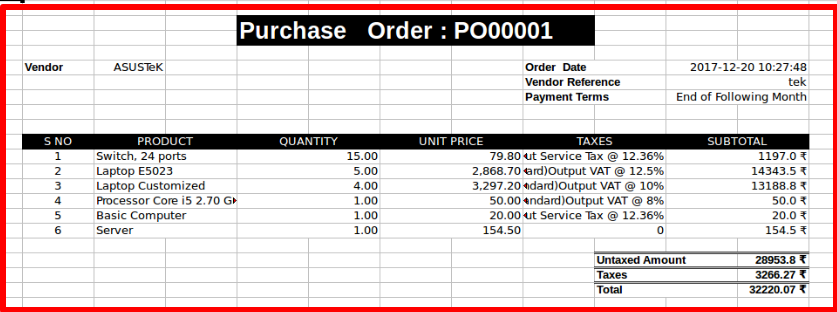
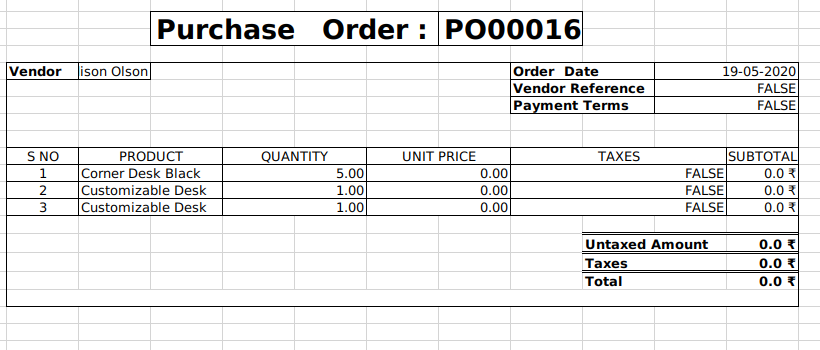
purchase order - fix

diff --git a/purchase_order_xlsx/wizard/purchase_xls.py b/purchase_order_xlsx/wizard/purchase_xls.py
@@ -52,24 +52,40 @@ class WizardWizards(models.Model):
             custom_value ['amount_untaxed'] = str(rec.amount_untaxed)+' '+rec.currency_id.symbol
             custom_value ['amount_tax'] = str(rec.amount_tax)+' '+rec.currency_id.symbol
                                                   
-            style0 = xlwt.easyxf('font: name Times New Roman bold on;align: horiz right;', num_format_str='#,##0.00')
-            style1 = xlwt.easyxf('font: name Times New Roman bold on; pattern: pattern solid, fore_colour gray25;align: horiz center;', num_format_str='#,##0.00')
-            style2 = xlwt.easyxf('font:height 400,bold True; pattern: pattern solid, fore_colour gray25;', num_format_str='#,##0.00')
-            style3 = xlwt.easyxf('font:bold True;', num_format_str='#,##0.00')
-            style4 = xlwt.easyxf('font:bold True;  borders:top double;align: horiz right;', num_format_str='#,##0.00')
-            style5 = xlwt.easyxf('font: name Times New Roman bold on;align: horiz center;', num_format_str='#,##0')
-            style6 = xlwt.easyxf('font: name Times New Roman bold on;', num_format_str='#,##0.00')
+            style0 = xlwt.easyxf('font: name Times New Roman bold on;borders:left thin, right thin, top thin, bottom thin;align: horiz right;', num_format_str='#,##0.00')
+            style1 = xlwt.easyxf('font: name Times New Roman bold on;borders:left thin, right thin, top thin, bottom thin;align: horiz center;', num_format_str='#,##0.00')
+            style2 = xlwt.easyxf('font:height 400,bold True;borders:left thin, right thin, top thin, bottom thin;', num_format_str='#,##0.00')
+            style3 = xlwt.easyxf('font:bold True;borders:left thin, right thin, top thin, bottom thin;', num_format_str='#,##0.00')
+            style4 = xlwt.easyxf('font:bold True;  borders:top double,right thin;align: horiz right;', num_format_str='#,##0.00')
+            style5 = xlwt.easyxf('font: name Times New Roman bold on;borders:left thin, right thin, top thin, bottom thin;align: horiz center;', num_format_str='#,##0')
+            style6 = xlwt.easyxf('font: name Times New Roman bold on;borders:left thin, right thin, top thin, bottom thin;', num_format_str='#,##0.00')
             style7 = xlwt.easyxf('font:bold True;  borders:top double;', num_format_str='#,##0.00')
-            
-                          
+            style8 = xlwt.easyxf('font: name Times New Roman bold on;borders:left thin, right thin, top thin, bottom thin;align: horiz right;', num_format_str='DD-MM-YYYY')
+            style3_1 = xlwt.easyxf('font: name Times New Roman bold on;borders:left thin;align: horiz right;', num_format_str='#,##0.00')
+            style4_1 = xlwt.easyxf('borders:top thin;', num_format_str='#,##0.00')
+            style5_1 = xlwt.easyxf('borders:left thin;', num_format_str='#,##0.00')
+            style6_1 = xlwt.easyxf('font:bold True;  borders:top double;', num_format_str='#,##0.00')
+            style7_1 = xlwt.easyxf('borders:left thin,bottom thin,right thin;', num_format_str='#,##0.00')
+            style8_1 = xlwt.easyxf('borders:right thin;', num_format_str='#,##0.00')
             sheet = workbook.add_sheet(rec.name)
             
-            sheet.write_merge(2, 3, 4, 6, 'Purchase   Order :', style2)
+            sheet.write_merge(2, 3, 3, 6, 'Purchase   Order :', style2)
             sheet.write_merge(2, 3, 7, 8, custom_value['partner_no'], style2)     
             sheet.write(5, 1, 'Vendor', style3)
+            sheet.write(6, 1, '',style3_1)
+            sheet.write(7, 1, '',style3_1)
+            sheet.write(8, 1, '',style3_1)
+            sheet.write(9, 1, '',style3_1)
+            sheet.write(5, 3, '',style4_1)
+            sheet.write(5, 4, '',style4_1)
+            sheet.write(5, 5, '',style4_1)
+            sheet.write(5, 6, '',style4_1)
+            sheet.write(5, 7, '',style4_1)
+            sheet.write(8, 12,'', style5_1)
+            sheet.write(9, 12,'', style5_1)
             sheet.write(5, 2, custom_value['partner_id'], style0)     
             sheet.write_merge(5, 5, 8, 9, 'Order  Date', style3)
-            sheet.write_merge(5, 5, 10, 11, custom_value['date_order'], style0)     
+            sheet.write_merge(5, 5, 10, 11, custom_value['date_order'], style8)     
             sheet.write_merge(6, 6, 8, 9, 'Vendor Reference', style3)
             sheet.write_merge(6, 6, 10, 11, custom_value['partner_ref'], style0)
             sheet.write_merge(7, 7, 8, 9, 'Payment Terms', style3)
@@ -82,7 +98,7 @@ class WizardWizards(models.Model):
             sheet.write_merge(10, 10, 8, 10, 'TAXES', style1) 
             sheet.write(10, 11, 'SUBTOTAL', style1)
             
-            n = 11; i = 1
+            n = 11; m=10; i = 1
             for product in custom_value['products']:
                 sheet.write(n, 1, i, style5)  
                 sheet.write_merge(n, n, 2, 3, product['product_id'], style6)      
@@ -90,13 +106,19 @@ class WizardWizards(models.Model):
                 sheet.write_merge(n, n, 6, 7, product['price_unit'], style0)
                 sheet.write_merge(n, n, 8, 10, product['taxes_id'], style0)
                 sheet.write(n, 11, product['price_subtotal'], style0)                          
-                n += 1; i += 1
+                n += 1; m +=1; i += 1
             sheet.write_merge(n+1, n+1, 9, 10, 'Untaxed Amount', style7)
             sheet.write(n+1, 11, custom_value['amount_untaxed'], style4)
             sheet.write_merge(n+2, n+2, 9, 10, 'Taxes', style7)
             sheet.write(n+2, 11, custom_value['amount_tax'], style4)
-            sheet.write_merge(n+3, n+3, 9, 10, 'Total', style7)
+            sheet.write_merge(n+3, n+3, 9, 10, 'Total', style6_1)
             sheet.write(n+3, 11, custom_value['amount_total'], style4)
+            sheet.write(m+1, 1, '', style3_1)
+            sheet.write(m+1, 11, '', style8_1)
+            sheet.write(n+1, 1, '', style3_1)
+            sheet.write(n+2, 1, '', style3_1)
+            sheet.write(n+3, 1, '', style3_1)
+            sheet.write_merge(n+4,n+4,1, 11, '', style7_1)
 #CSV report
         datas = []
         for values in order:
